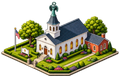
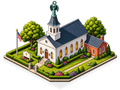
Truck depot art for every depot; new bank and church
- New 2x2 art for town_bank, town_center and truck_depot, fitted with the
  road collar (lot inset 0.08 tile, front corner 5px up) and compiled.
- Every Depot now draws one truck_depot building (DEPOT_SPRITE); the six
  per-cargo depot_<cargo> outposts are removed.
- loadBuildingLayers registers a building the sprite table does not know
  yet from its own manifest entry, so new art like truck_depot is drawn.

Gameplay is unchanged: depots still occupy one tile (2x2 depots with
rotation and an entrance are the next change).

diff --git a/tests/unit/iso-atlas-building-layers.test.ts b/tests/unit/iso-atlas-building-layers.test.ts
@@ -204,20 +204,23 @@ describe("#136 loadBuildingLayers installs per sprite, as each one's PNGs land",
     expect(warn.mock.calls.some((c) => String(c[0]).includes("edited by hand")), "the hand edit is called out").toBe(true);
   });
 
-  it("a manifest name the atlas does not know is skipped quietly", async () => {
+  it("a building the sprite table does not know yet is registered and installed", async () => {
     const warn = vi.spyOn(console, "warn").mockImplementation(() => {});
     const served = buildingsManifest();
-    served.sprites.ghost_shed = { footprint: [1, 1], anchor: [32, 48], w: 64, h: 64 };
+    served.sprites.ghost_shed = { footprint: [2, 2], anchor: [32, 48], w: 64, h: 64 };
     const { pngs } = stubNetwork({ manifest: served });
     const atlas = freshAtlas();
+    expect(atlas.get("ghost_shed"), "not in the sheet before the load").toBeUndefined();
 
     await loadBuildingLayers(atlas, "/assets/buildings/");
 
-    // Nothing to override, so nothing is fetched and nothing is installed —
-    // and it is NOT a fallback: no warning, because no art failed.
-    expect(atlas.hasBuilding("ghost_shed")).toBe(false);
-    expect(pngs.filter((f) => spriteOf(f) === "ghost_shed")).toEqual([]);
-    expect(warn.mock.calls.map((c) => String(c[0])), "an unknown sprite is not an art failure").toEqual([]);
+    // New art (like `truck_depot`) needs no sheet cell: its own manifest entry
+    // becomes the def, centre-anchored on the footprint it declares.
+    expect(atlas.hasBuilding("ghost_shed")).toBe(true);
+    expect(pngs.filter((f) => spriteOf(f) === "ghost_shed").sort()).toEqual(
+      ["ghost_shed@0.5x.png", "ghost_shed@1x.png", "ghost_shed@2x.png"]);
+    expect(atlas.get("ghost_shed")).toMatchObject({ footprint: [2, 2], center: true });
+    expect(warn.mock.calls.map((c) => String(c[0])), "registering new art is not an art failure").toEqual([]);
     expect(
       NAMES.filter((n) => !atlas.hasBuilding(n)),
       "the sprites the atlas does know still all install",

diff --git a/src/iso/game.ts b/src/iso/game.ts
@@ -112,7 +112,7 @@ import {
 import {
   CARGO, CARGOES, FACTORY_FOOTPRINT, FACTORY_SPRITE, INDUSTRY_BY_KEY, TRANSPORT,
   BASE_RATE, VICTORY, VP_TARGET, UPGRADE_COST, TUNING,
-  depotSpriteForCargo, type Cargo, type Portrait,
+  DEPOT_SPRITE, type Cargo, type Portrait,
 } from "./config";
 import { depotYield, distanceFactor, transportFactor } from "./loop";
 // L4 (#218): the tuning session — the one thing that sets a depot's yield.
@@ -1991,19 +1991,12 @@ export function startIsoGame(root: HTMLElement, opts: IsoGameOptions = {}) {
     world.extra = [
       ...townItems,
       ...factoryItems,
-      // PP-12: resource-specific Depot art — the outpost reads as what it
-      // harvests (a lumber mill at a forest, a rig at an oil field, …). The
-      // first served industry names the cargo; placement always requires one,
-      // so the fallback below only serves foreign snapshots. Ownership still
-      // shows in the inspector, the catchment overlays and the ref payload.
-      ...eco.harvesters.map((h) => {
-        const served = industriesInCatchment(grid, h);
-        const cargo = served.length ? INDUSTRY_BY_KEY[served[0].type].cargo : "grain";
-        return {
-          sprite: depotSpriteForCargo(cargo),
-          tx: h.tx, ty: h.ty, ref: { kind: "harvester", id: h.id, owner: h.owner },
-        };
-      }),
+      // Every Depot is the same truck depot building, whatever it harvests.
+      // Ownership shows in the inspector, the catchment overlays and the ref.
+      ...eco.harvesters.map((h) => ({
+        sprite: DEPOT_SPRITE,
+        tx: h.tx, ty: h.ty, ref: { kind: "harvester", id: h.id, owner: h.owner },
+      })),
       // RAIL-04: the railway's structures are ordinary footprint-anchored
       // sprites in the same static list (`railStructureItems` names them from
       // the manifest, and `syncWorld` is the only writer). A missing PNG just

diff --git a/src/iso/placement.ts b/src/iso/placement.ts
@@ -32,7 +32,7 @@
 // follow the shared geometry instead of growing a second copy elsewhere.
 // ══════════════════════════════════════════════════════════════════════════
 import {
-  FACTORY_FOOTPRINT, INDUSTRY_BY_KEY, depotSpriteForCargo,
+  FACTORY_FOOTPRINT, DEPOT_SPRITE,
 } from "./config";
 import {
   GRASS, ROUGH, SAND, TOWN_OCC, type Grid, type Industry, type Town,
@@ -212,17 +212,12 @@ export function depotServedIndustries(grid: Grid, tx: number, ty: number): Indus
 }
 
 /**
- * The sprite a Depot placed at (tx,ty) would be drawn with — the same answer
- * `syncWorld` gives a standing Depot (the first served industry names the
- * cargo, `depotSpriteForCargo` names the art), so the transparent preview
- * shows the very building the click would raise: a lumber mill beside a
- * forest, a rig beside an oil field. With nothing in catchment there is no
- * cargo to read, and the grain outpost is the neutral placeholder.
+ * The sprite a Depot placed at (tx,ty) would be drawn with — the same truck
+ * depot `syncWorld` draws for every standing Depot. The tile arguments stay so
+ * callers do not change if depots ever vary by site again.
  */
-export function depotPreviewSprite(grid: Grid, tx: number, ty: number): string {
-  const served = depotServedIndustries(grid, tx, ty);
-  const cargo = served.length ? INDUSTRY_BY_KEY[served[0].type].cargo : "grain";
-  return depotSpriteForCargo(cargo);
+export function depotPreviewSprite(_grid: Grid, _tx: number, _ty: number): string {
+  return DEPOT_SPRITE;
 }
 
 /** Every tile of a served industry's footprint that the catchment covers —

diff --git a/tests/unit/iso-pp12-assets.test.ts b/tests/unit/iso-pp12-assets.test.ts
@@ -3,7 +3,7 @@ import { existsSync, readFileSync } from "node:fs";
 import sharp from "sharp";
 import {
   FACTORY_FOOTPRINT, FACTORY_SPRITE, INDUSTRY_BY_KEY, TOWN_HOUSE_VARIANTS,
-  depotSpriteForCargo, footprintForArt, type Cargo,
+  DEPOT_SPRITE, footprintForArt,
 } from "../../src/iso/config";
 import type { Manifest } from "../../src/iso/atlas";
 
@@ -102,13 +102,16 @@ describe("PP-12 gameplay footprints are the art's footprints", () => {
     }
   });
 
-  it("every cargo has its 1×1 depot outpost sprite", () => {
-    const cargos: Cargo[] = ["wood", "stone", "grain", "ore", "oil", "gold"];
-    for (const cargo of cargos) {
-      const name = depotSpriteForCargo(cargo);
-      const m = manifest.sprites[name];
-      expect(m, `manifest is missing depot sprite ${name}`).toBeTruthy();
-      expect(m.footprint, name).toEqual([1, 1]);
+  it("every Depot draws the one truck depot building, on a 2×2 art area", () => {
+    expect(DEPOT_SPRITE).toBe("truck_depot");
+    const layers = JSON.parse(readFileSync("assets/buildings/manifest.json", "utf8")) as {
+      sprites: Record<string, { footprint: [number, number] }>;
+    };
+    expect(layers.sprites[DEPOT_SPRITE], "truck_depot is compiled").toBeTruthy();
+    expect(layers.sprites[DEPOT_SPRITE].footprint).toEqual([2, 2]);
+    // the retired per-cargo outposts are gone from the building layers
+    for (const cargo of ["wood", "stone", "grain", "ore", "oil", "gold"]) {
+      expect(layers.sprites[`depot_${cargo}`], `depot_${cargo}`).toBeUndefined();
     }
   });
 });

diff --git a/src/iso/atlas.ts b/src/iso/atlas.ts
@@ -368,8 +368,12 @@ export async function loadBuildingLayers(
   } = await res.json().catch(() => null);
   const names = m?.sprites ? Object.entries(m.sprites) : [];
   await Promise.all(names.map(async ([name, def]) => {
-    const s = atlas.manifest.sprites[name];
-    if (!s) return;                                  // unknown sprite: nothing to override
+    // A building the sprite table does not know yet (new art such as
+    // `truck_depot`) is registered from its own manifest entry.
+    const registered = !atlas.manifest.sprites[name];
+    const s = atlas.manifest.sprites[name] ??= {
+      x: 0, y: 0, w: def.w, h: def.h, footprint: def.footprint, anchor: def.anchor, center: true,
+    };
     const load = (file: string) => fetch(`${baseUrl}${file}`).then((r) => {
       if (!r.ok) throw new Error(`${file} → HTTP ${r.status}`);
       return r.blob();
@@ -395,7 +399,9 @@ export async function loadBuildingLayers(
       if (def.footprint) s.footprint = def.footprint;
     } catch (err) {
       // A fill pass failing leaves the already-installed levels serving the
-      // sprite; only a first-install failure drops it back to the sheet art.
+      // sprite; only a first-install failure drops it back to the sheet art
+      // (or, for a building registered above, removes the def it never used).
+      if (!have && registered) delete atlas.manifest.sprites[name];
       if (!have) console.warn(`[building-layers] ${name}: fell back to the shared sheet`, err);
     }
   }));

diff --git a/src/iso/config.ts b/src/iso/config.ts
@@ -339,14 +339,11 @@ export const FACTORY_SPRITE = "factory";
 export const FACTORY_FOOTPRINT: [number, number] = footprintForArt(spriteWidth(FACTORY_SPRITE));
 
 /**
- * PP-12: resource-specific Depot art. Each cargo has its own half-scale TTD
- * outpost (`depot_<cargo>` file cell): food plant for grain, lumber mill for
- * wood (the PP-11 example), copper mine for ore, diamond mine for stone, rig
- * for oil, iron mine for gold. The game picks by the Depot's served cargo.
+ * Depot art: ONE truck depot building for every Depot, whatever it harvests
+ * (like the railway's single platform art). The per-cargo outposts
+ * (`depot_<cargo>`) were retired. Drawn on a 2×2 art area.
  */
-export function depotSpriteForCargo(cargo: Cargo): string {
-  return `depot_${cargo}`;
-}
+export const DEPOT_SPRITE = "truck_depot";
 
 /**
  * PP-12: one town variant per packed TTD house file (43). The church is the
